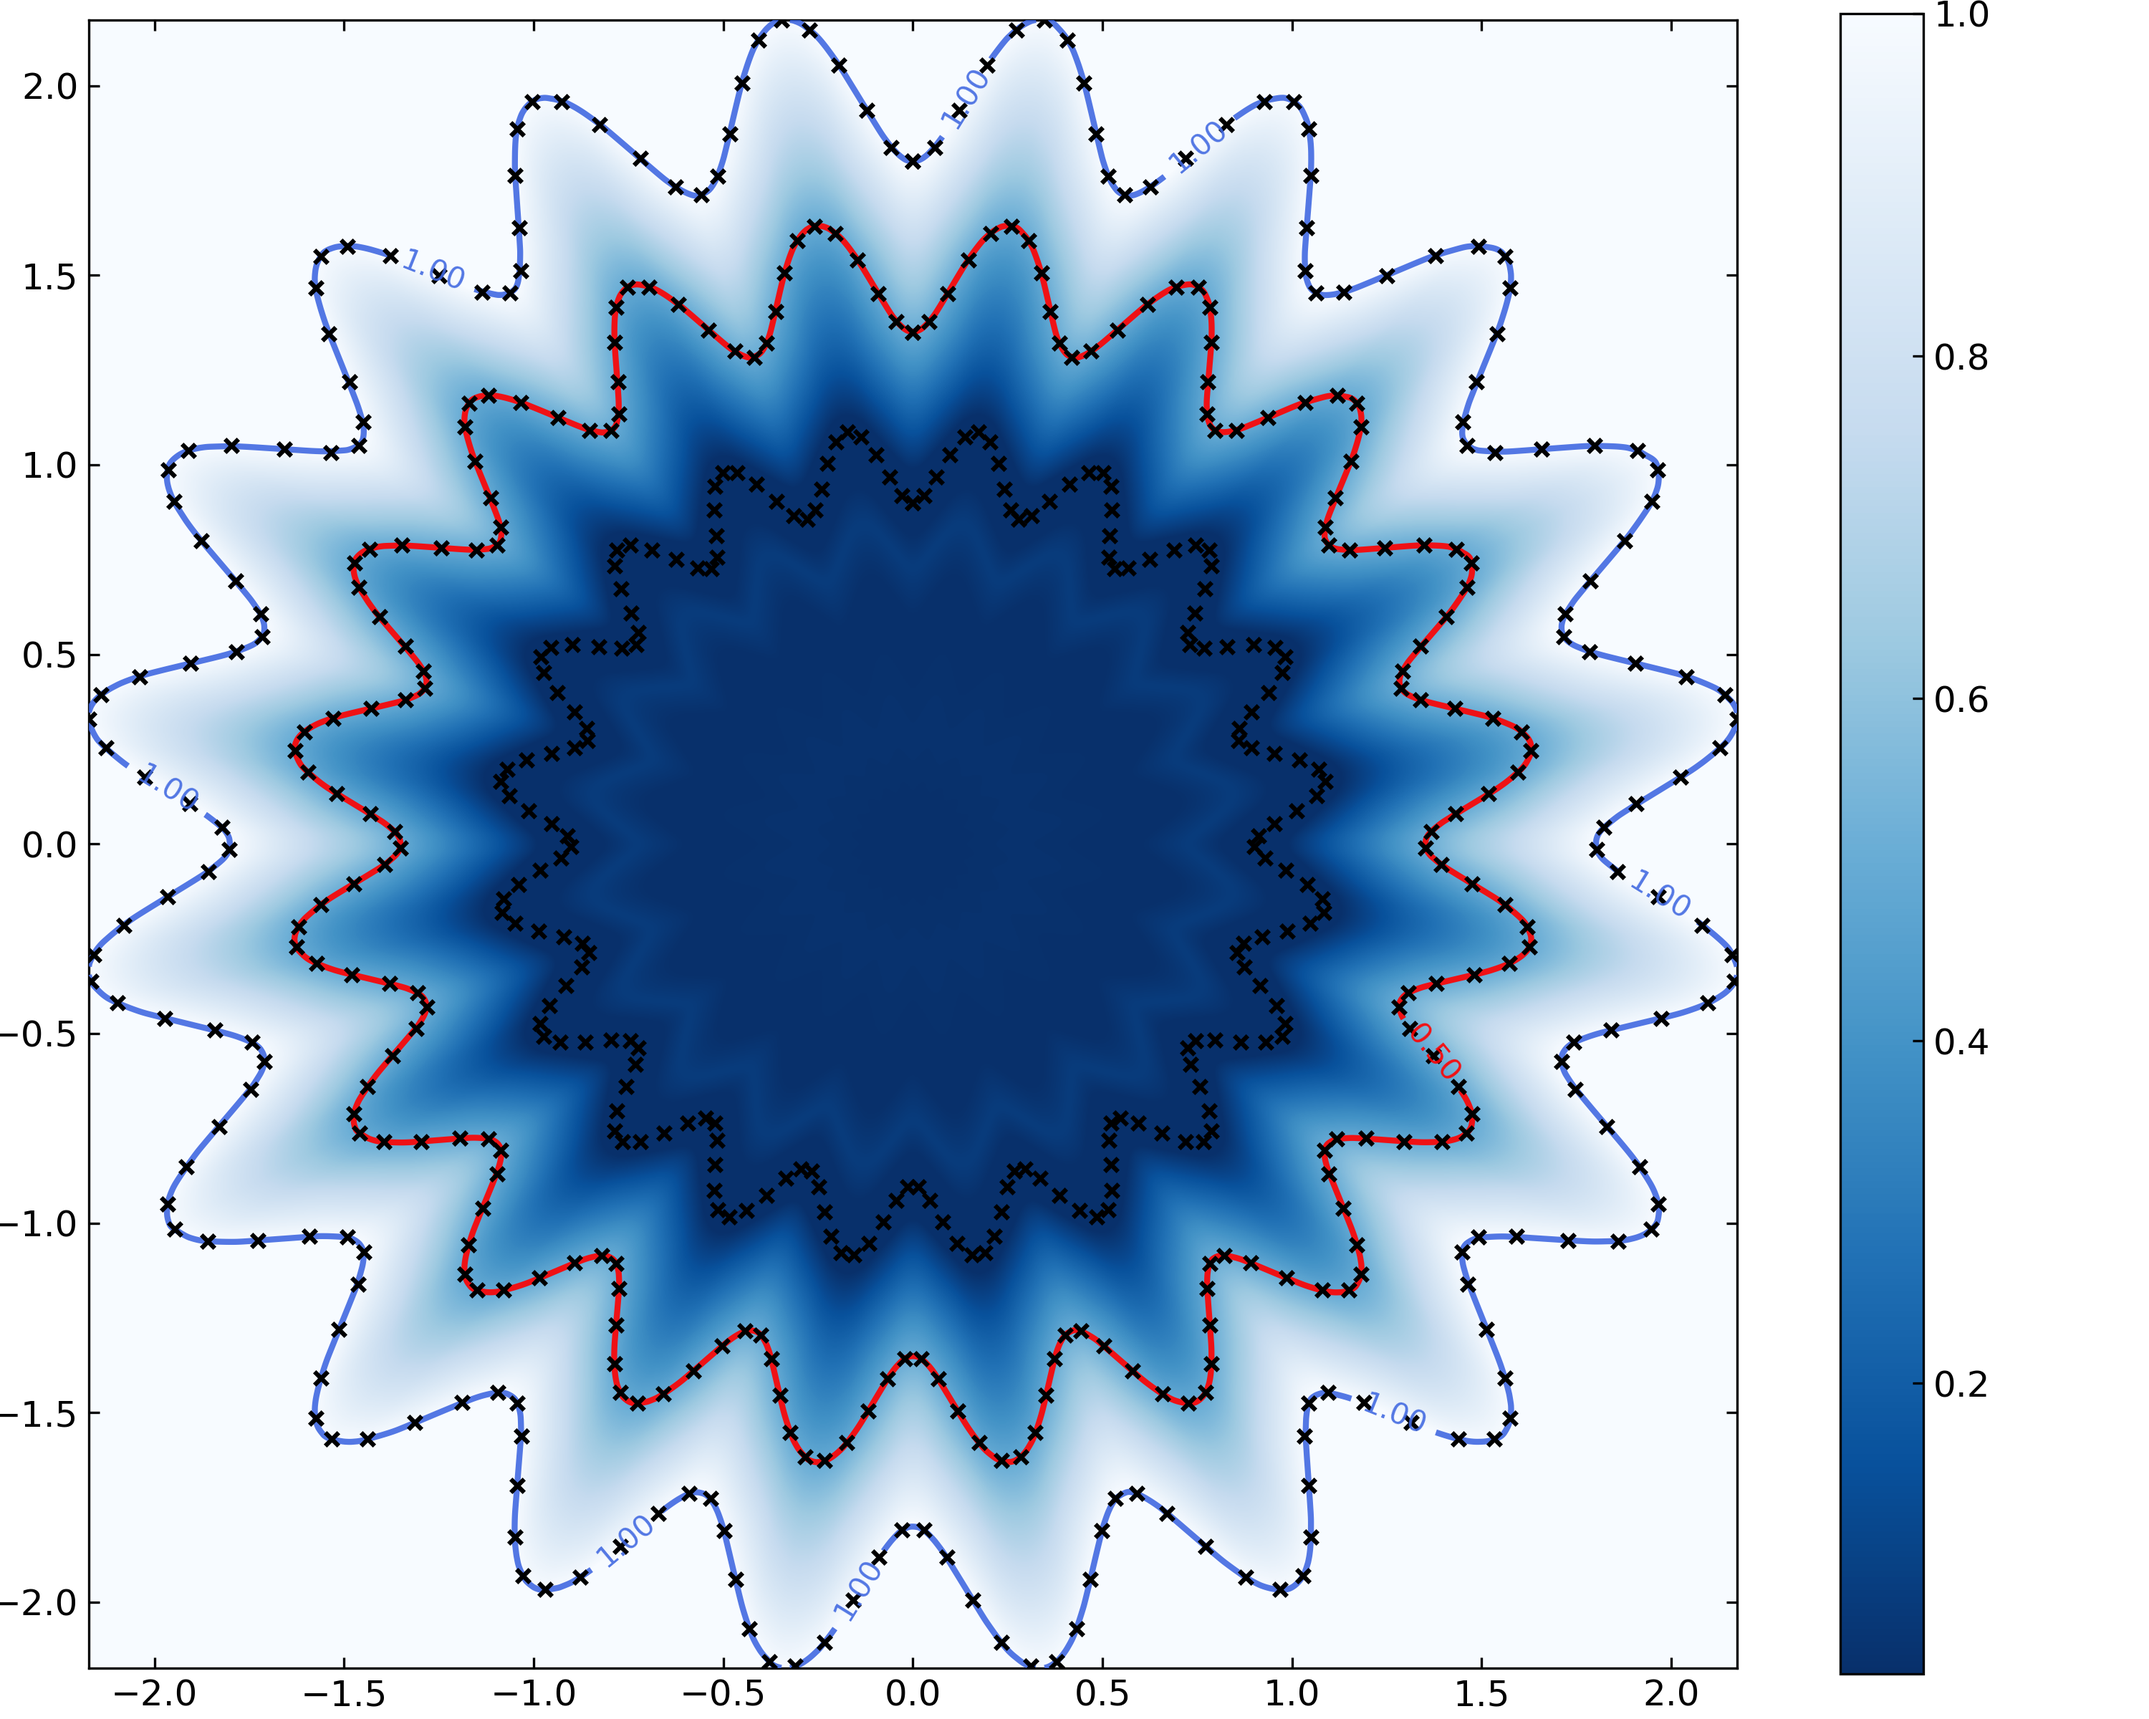
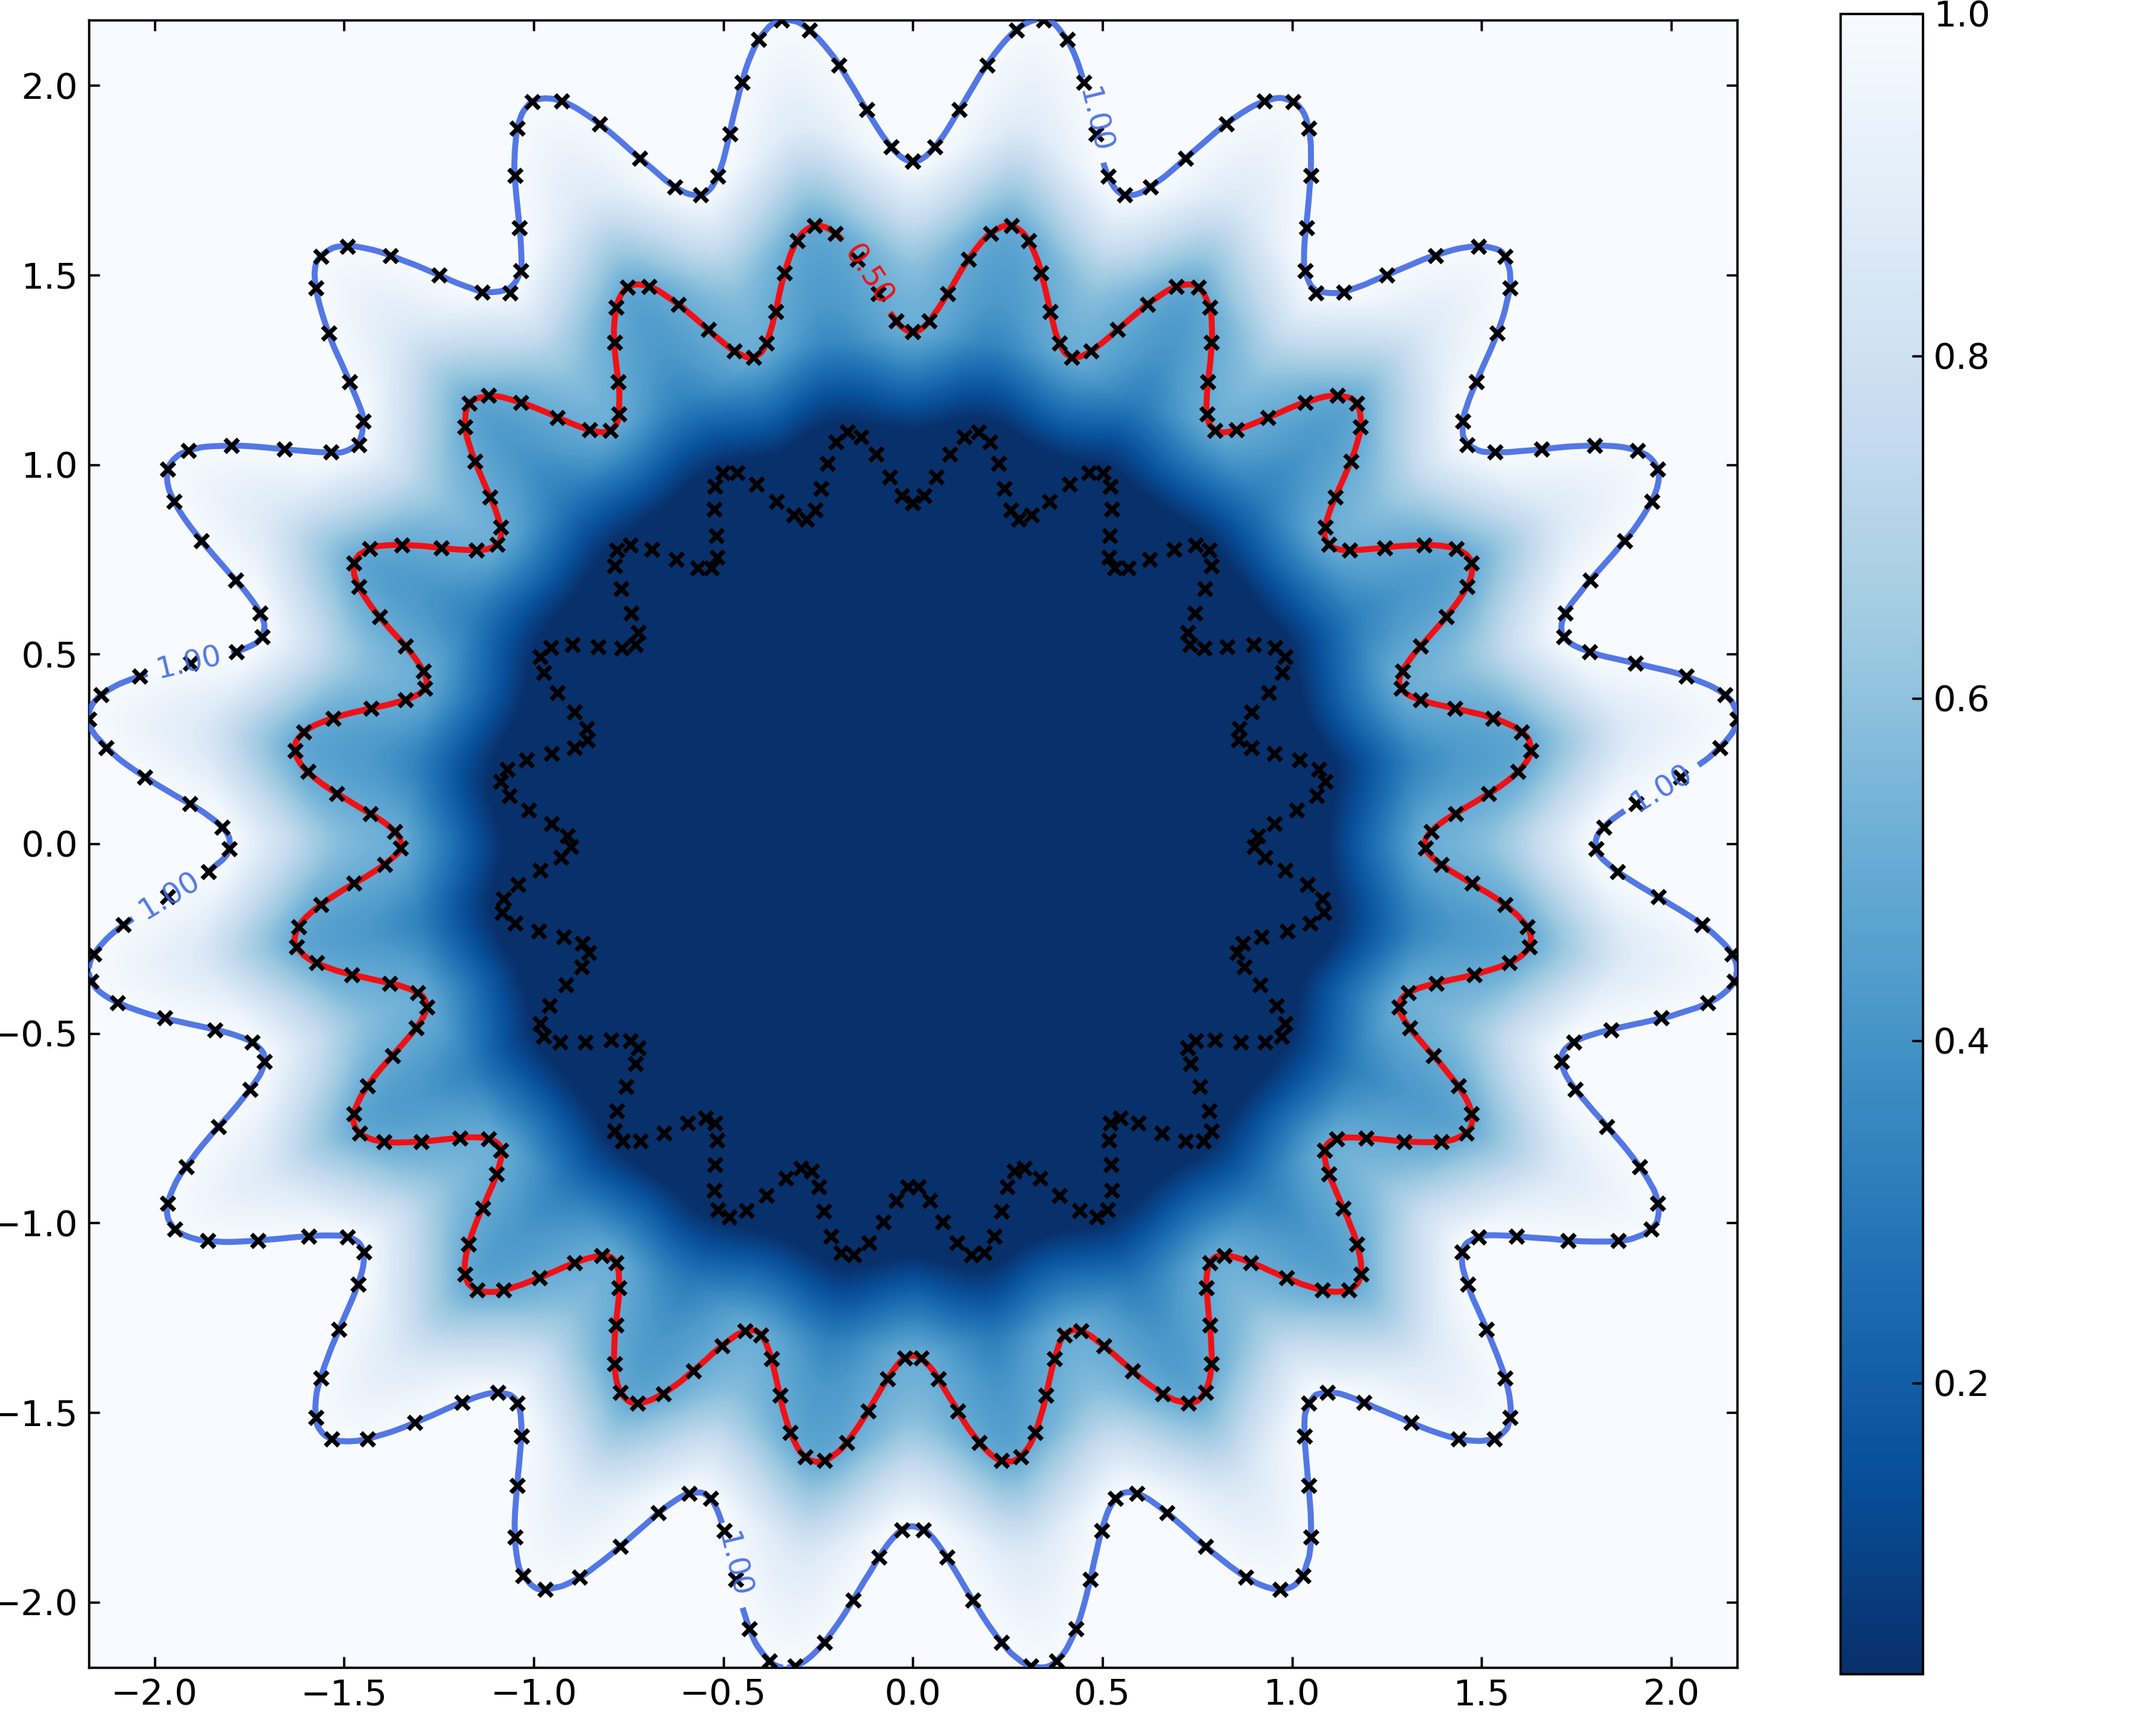
[cleanup] some small cleanups

diff --git a/monotonicnetworks/LipschitzMonotonicNetwork.py b/monotonicnetworks/LipschitzMonotonicNetwork.py
@@ -9,7 +9,7 @@ class MonotonicWrapper(Module):
     def __init__(
         self,
         lipschitz_module: Module,  # Must already be lipschitz
-        lipschitz_const: float = 1,
+        lipschitz_const: float = 1.0,
         monotonic_constraints: T.Optional[T.Iterable] = None,
     ):
         """This is a wrapper around a module with a lipschitz_const lipschitz constant. It
@@ -36,9 +36,7 @@ class MonotonicWrapper(Module):
         """
         super().__init__()
         self.nn = lipschitz_module
-        self.register_buffer(
-            "lipschitz_const", torch.Tensor([lipschitz_const])
-        )
+        self.register_buffer("lipschitz_const", torch.Tensor([lipschitz_const]))
         if monotonic_constraints is None:
             monotonic_constraints = [1]
         monotonic_constraints = torch.Tensor(monotonic_constraints)
@@ -64,25 +62,21 @@ class LipschitzLinear(Linear):
         lipschitz_const (float, optional): Lipschitz constant of the layer.
             Default: ``1``
         kind (str, optional): Type of Lipschitz constraint to enforce.
+            Will be passed to :func:`direct_norm`, see its documentation for details.
     """
 
     def __init__(
         self,
-        in_features,
-        out_features,
-        bias=True,
-        lipschitz_const=1,
-        kind="one-inf",
+        in_features: int,
+        out_features: int,
+        bias: bool = True,
+        lipschitz_const: float = 1.0,
+        kind: str = "one-inf",
     ):
         super().__init__(in_features, out_features, bias=bias)
-        self.register_buffer(
-            "lipschitz_const", torch.Tensor([lipschitz_const])
-        )
+        self.register_buffer("lipschitz_const", torch.Tensor([lipschitz_const]))
         # Directly enforce Lipschitz constraint
         self = direct_norm(self, max_norm=lipschitz_const, kind=kind)
-
-    def forward(self, x):
-        return torch.nn.functional.linear(x, self.weight, self.bias)
 
 
 class MonotonicLayer(LipschitzLinear):
@@ -107,54 +101,48 @@ class MonotonicLayer(LipschitzLinear):
             with respect to the i-th input.
             Default: ``None``
         kind (str, optional): Type of Lipschitz constraint to enforce. Default: ``"one-inf"``
+            Will be passed to :func:`direct_norm`, see its documentation for details.
     """
 
     def __init__(
         self,
-        in_features,
-        out_features,
-        bias=True,
-        lipschitz_const=1,
+        in_features: int,
+        out_features: int,
+        bias: bool = True,
+        lipschitz_const: float = 1.0,
         monotonic_constraints: T.Optional[T.Iterable] = None,
-        kind="one-inf",
+        kind: str = "one-inf",
     ):
-        super().__init__(
-            in_features, out_features, bias, lipschitz_const, kind
-        )
-        self.register_buffer(
-            "lipschitz_const", torch.tensor([lipschitz_const])
-        )
+        super().__init__(in_features, out_features, bias, lipschitz_const, kind)
+        self.register_buffer("lipschitz_const", torch.tensor([lipschitz_const]))
         if monotonic_constraints is None:
             monotonic_constraints = torch.ones(in_features)
         else:
-            monotonic_constraints = torch.Tensor(
-                monotonic_constraints)
-        if monotonic_constraints.ndim == 1:
-            monotonic_constraints = monotonic_constraints.unsqueeze(-1)
-        if monotonic_constraints.shape[0] != in_features:
-            raise ValueError(
-                f"monotonic_constraints must be of length {in_features},"
-                f" got {monotonic_constraints.shape[0]}"
-            )
-        if (
-            monotonic_constraints.shape[1] != out_features
-            and monotonic_constraints.shape[1] != 1
-        ):
+            monotonic_constraints = torch.Tensor(monotonic_constraints)
+
+        if monotonic_constraints.shape not in [
+            (in_features, out_features),
+            (in_features, 1),
+            (in_features,),
+        ]:
             raise ValueError(
                 "monotonic_constraints must be of shape (in_features, out_features),"
+                " ,(in_features, 1), or (in_features,)"
                 f" got {monotonic_constraints.shape}"
             )
 
+        if monotonic_constraints.ndim == 1:
+            monotonic_constraints = monotonic_constraints.unsqueeze(-1)
         self.register_buffer("monotonic_constraints", monotonic_constraints)
 
     def forward(self, x: torch.Tensor):
         residual = self.lipschitz_const * x @ self.monotonic_constraints
-        x = torch.nn.functional.linear(x, self.weight, self.bias)
+        x = super()(x)
         return (x + residual) / 2
 
 
 class RMSNorm(Module):
-    def __init__(self, norm_shape, affine=True):
+    def __init__(self, norm_shape: T.Union[T.Iterable, int], affine: bool = True):
         super().__init__()
         self.register_buffer("norm_shape", torch.tensor(norm_shape))
         weights = torch.ones(norm_shape) / self.norm_shape.sqrt()  # type: ignore
@@ -164,8 +152,7 @@ class RMSNorm(Module):
 
     def forward(self, x):
         rms = torch.sqrt(torch.mean(x**2, dim=-1, keepdim=True)).clip(min=1)
-        weight = self.weight.pow(2)  # type: ignore
-        return (x / rms) * weight + self.bias
+        return (x / rms) * self.weight.pow(2) + self.bias
 
 
 class SigmaNet(MonotonicWrapper):

diff --git a/Examples/flower.py b/Examples/flower.py
@@ -65,9 +65,6 @@ max_norm = 3 ** (1 / 8)
 # --------------- Build Lipschitz Network ---------------
 model = torch.nn.Sequential(
     direct_norm(torch.nn.Linear(2, 1024), kind="two-inf", max_norm=max_norm),
-    torch.nn.BatchNorm1d(1024, affine=False),
-    GroupSort(16),
-    direct_norm(torch.nn.Linear(1024, 1024), kind="inf", max_norm=max_norm),
     GroupSort(16),
     direct_norm(torch.nn.Linear(1024, 256), kind="inf", max_norm=max_norm),
     GroupSort(16),

diff --git a/setup.py b/setup.py
@@ -7,7 +7,7 @@ setup(
     url="",
     license="MIT",
     author="Ouail Kitouni, Niklas Nolte",
-    author_email="kitouni@mit.edu, nnolte@mit.edu",
+    author_email="kitouni@mit.edu, nolte@meta.com",
     description=(
         "Pytorch implementation of constrained weight operator norms for robustness "
         + "and monotonicity in neural networks."

diff --git a/monotonicnetworks/tests.py b/monotonicnetworks/tests.py
@@ -47,9 +47,3 @@ if __name__ == "__main__":
     torch.manual_seed(0)
     # run the tests
     unittest.main()
-
-    linear = LipschitzLinear(1, 2)
-    x = torch.linspace(-1, 1, 5).view(-1, 1)
-    y = linear(x)
-    print("x", x)
-    print("linear(x)", y)
